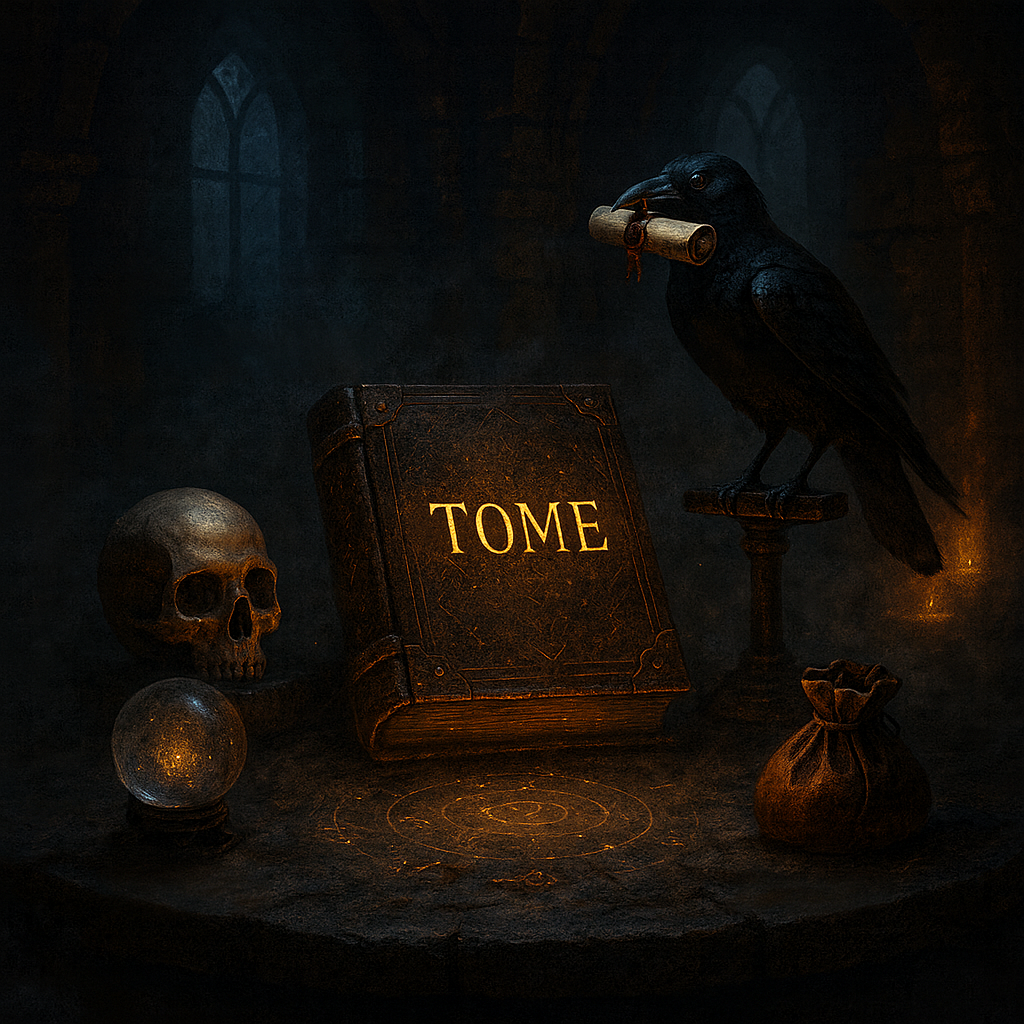
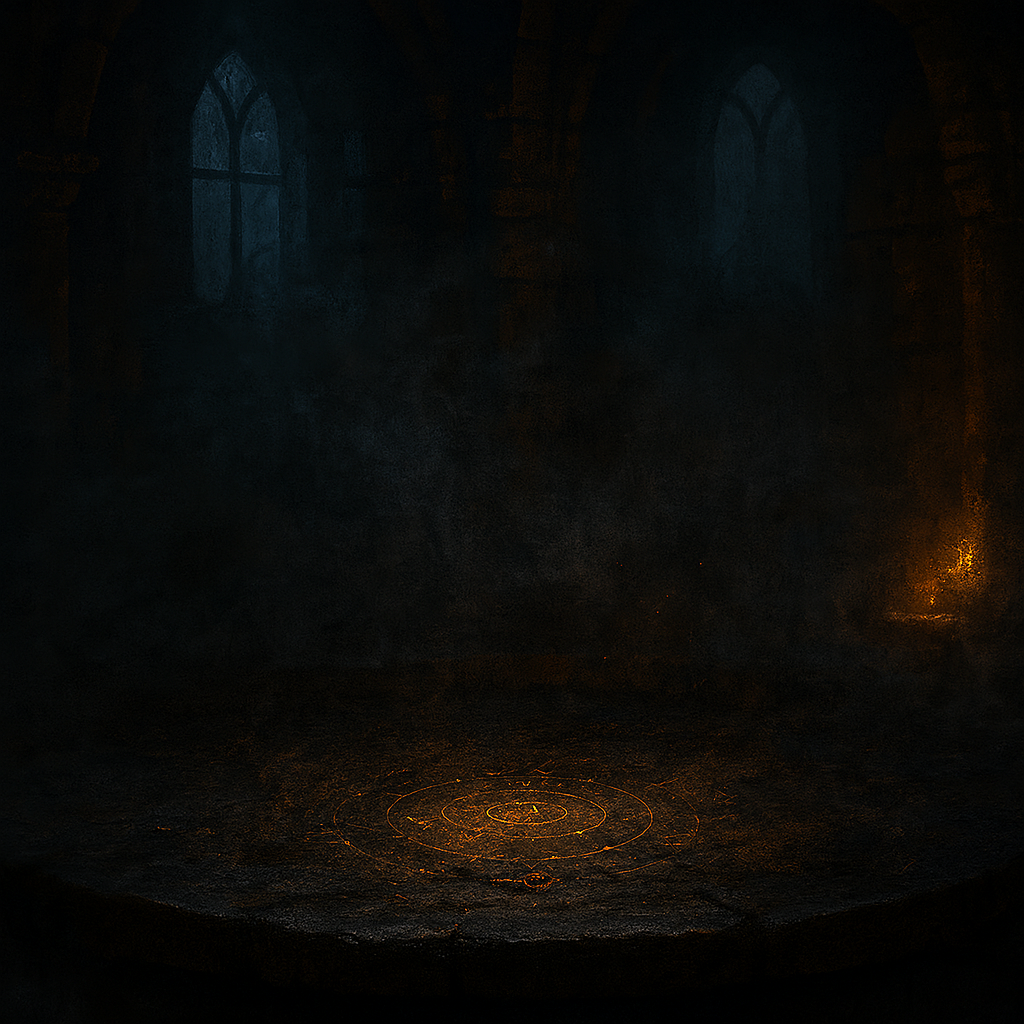
feat: removed objects and scaled background

diff --git a/src/index.css b/src/index.css
@@ -3,7 +3,7 @@ html, body, #root { height: 100%; margin: 0; }
 body { background: #0b0f14; font-family: "Book Antiqua", "Times New Roman", serif}
 
 .scene, .desk { position: relative; height: 100%; overflow: hidden; }
-.scene-img, .desk-img { width: 100%; height: 100%; object-fit: cover; display: block; }
+.scene-img, .desk-img { width: 100%; height: 100%; object-fit: fill; display: block; }
 
 /* Landing title overlay */
 .title {

diff --git a/src/pages/Landing.tsx b/src/pages/Landing.tsx
@@ -1,7 +1,7 @@
 import { useNavigate } from "react-router-dom";
 import Hotspot from "../components/Hotspot";
 
-const scene = "/assets/scene.png"
+const scene = "/assets/Scene.png"
 
 export default function Landing() {
     const nav = useNavigate();
